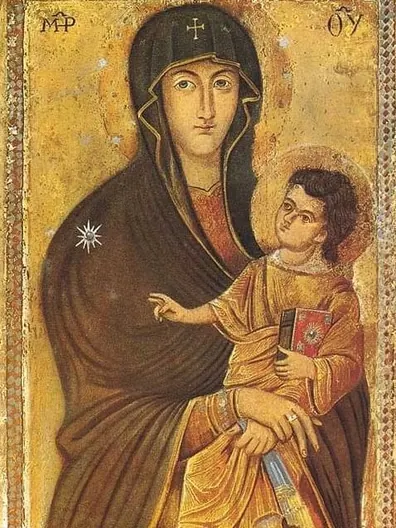
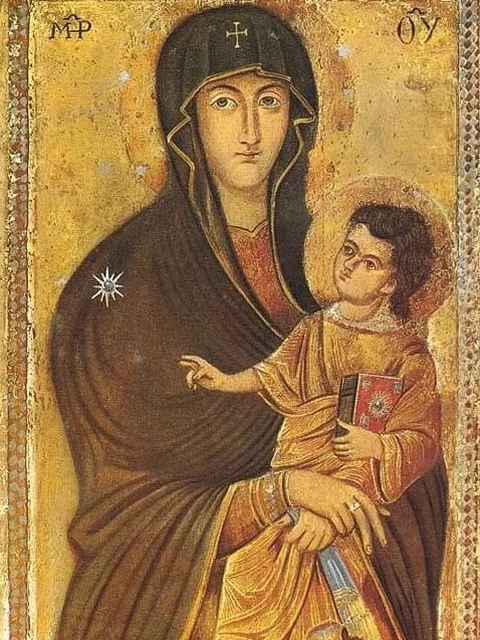
fix: corrige a resolução das imagens no celular

Changed region(s): [[0.2121, 0.4242, 0.2424, 0.4545], [0.1212, 0.0303, 0.1515, 0.0606]]

diff --git a/src/styles/base.css b/src/styles/base.css
@@ -1499,9 +1499,18 @@ button {
   scroll-snap-align: start;
 }
 
+/*
+ * A estampa fica ao lado, e não em faixa por cima.
+ *
+ * A faixa larga pedia perto de mil pixels de largura num celular a 3x, e as
+ * estampas devocionais que temos têm 500 e pouco: a conta não fecha por
+ * processamento nenhum. Em retrato ao lado, o quadro pede 336 e sobra
+ * resolução. De quebra, é a forma do próprio material: recortar uma tira
+ * deitada de um santinho vertical cortava a figura no peito.
+ */
 .postagem-cartao {
   display: grid;
-  grid-template-rows: auto 1fr;
+  grid-template-columns: 7rem 1fr;
   height: 100%;
   background: var(--painel);
   border: 1px solid var(--fio);
@@ -1518,10 +1527,11 @@ button {
 }
 .postagem-cartao__imagem {
   width: 100%;
-  height: 8.5rem;
+  height: 100%;
+  min-height: 9.5rem;
   object-fit: cover;
-  object-position: center 30%;
-  border-bottom: 1px solid var(--fio);
+  object-position: center 25%;
+  border-right: 1px solid var(--fio);
 }
 .postagem-cartao__imagem--falta {
   background: var(--papel-fundo);
@@ -1668,6 +1678,9 @@ button {
   }
   .faixa__trilho {
     grid-auto-columns: 40%;
+  }
+  .postagem-cartao {
+    grid-template-columns: 8rem 1fr;
   }
 }
 
@@ -2176,6 +2189,9 @@ button {
 .padroeiro__imagem,
 .padroeiro__falta {
   width: 100%;
+  /* width/height no HTML viram dica de apresentação e, com os dois definidos,
+     o aspect-ratio é ignorado. `height: auto` devolve o comando ao CSS. */
+  height: auto;
   /* as estampas do Perez têm 132px de largura; esticá-las mais que isto
      só as borra, então o cartão para de crescer junto com a tela */
   max-width: 9rem;

diff --git a/src/components/UltimasPostagens.tsx b/src/components/UltimasPostagens.tsx
@@ -132,7 +132,14 @@ export function UltimasPostagens() {
           >
             <Elo para={`/postagens/${p.id}`} className="postagem-cartao">
               {p.imagem ? (
-                <img className="postagem-cartao__imagem" src={p.imagem} alt="" loading="lazy" />
+                <img
+                  className="postagem-cartao__imagem"
+                  src={p.imagem}
+                  alt=""
+                  width={480}
+                  height={640}
+                  loading="lazy"
+                />
               ) : (
                 <span className="postagem-cartao__imagem postagem-cartao__imagem--falta" />
               )}

diff --git a/src/components/Padroeiros.tsx b/src/components/Padroeiros.tsx
@@ -15,7 +15,14 @@ export function Padroeiros({ padroeiros }: { padroeiros: Padroeiro[] }) {
         {padroeiros.map((p) => (
           <li className="padroeiro" key={p.id}>
             {p.imagem ? (
-              <img className="padroeiro__imagem" src={p.imagem} alt={p.nome} loading="lazy" />
+              <img
+                className="padroeiro__imagem"
+                src={p.imagem}
+                alt={p.nome}
+                width={480}
+                height={640}
+                loading="lazy"
+              />
             ) : (
               <span className="padroeiro__falta" aria-hidden="true" />
             )}
